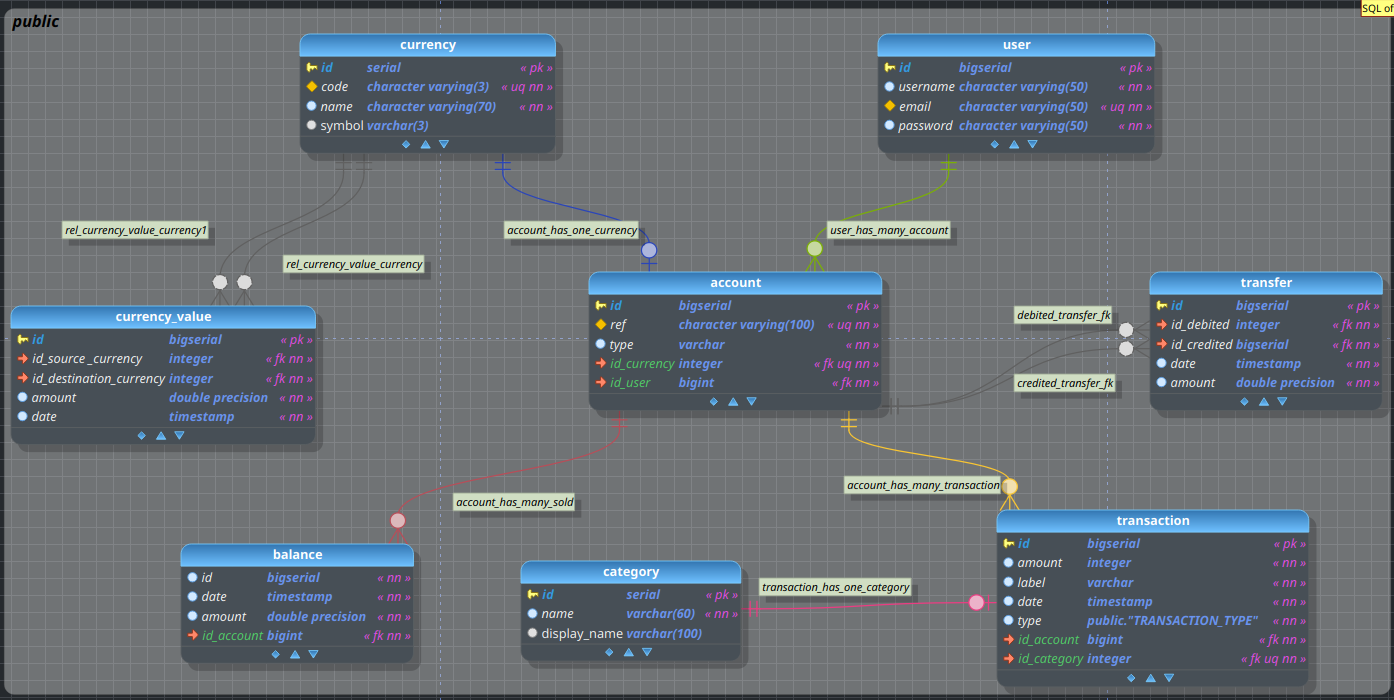
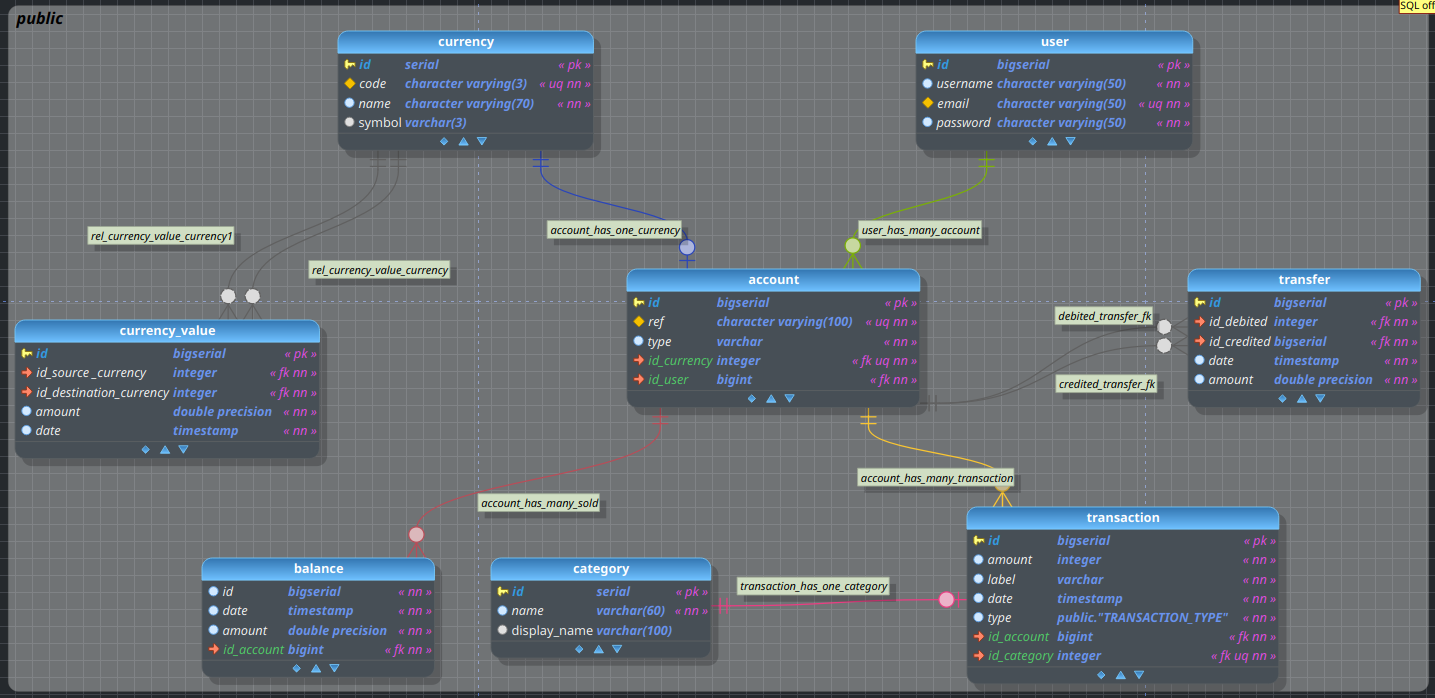
chore: cleaned project (#21)
* format: cleaned code

* chore: updated database model

diff --git a/src/main/java/td/wallet/repository/UserCrudOperations.java b/src/main/java/td/wallet/repository/UserCrudOperations.java
@@ -32,9 +32,9 @@ public class UserCrudOperations {
 
     public List<User> saveAll(List<User> toSave) {
         ArrayList<User> saved = new ArrayList<>();
-        for(User user : toSave) {
+        for (User user : toSave) {
             User value = save(user);
-            if(value == null) {
+            if (value == null) {
                 return null;
             }
             saved.add(value);
@@ -46,15 +46,15 @@ public class UserCrudOperations {
         if (toSave.getId() == 0) {
             return isSaved(toSave) ? findAll().get(0) : null;
         } else if (findById(toSave.getId()) != null) {
-             return qt.executeUpdate(
-                     "UPDATE \"user\" SET username=?, password=?, email=? WHERE id=?",
-                     ps -> {
-                         ps.setString(1, toSave.getUsername());
-                         ps.setString(2, toSave.getEmail());
-                         ps.setString(3, toSave.getPassword());
-                         ps.setLong(4, toSave.getId());
-                     }
-             ) == 0 ? null : toSave;
+            return qt.executeUpdate(
+                    "UPDATE \"user\" SET username=?, password=?, email=? WHERE id=?",
+                    ps -> {
+                        ps.setString(1, toSave.getUsername());
+                        ps.setString(2, toSave.getEmail());
+                        ps.setString(3, toSave.getPassword());
+                        ps.setLong(4, toSave.getId());
+                    }
+            ) == 0 ? null : toSave;
         }
         return null;
     }

diff --git a/src/main/java/td/wallet/repository/CurrencyCrudOperations.java b/src/main/java/td/wallet/repository/CurrencyCrudOperations.java
@@ -10,7 +10,7 @@ import java.util.ArrayList;
 import java.util.List;
 
 public class CurrencyCrudOperations {
-    private QueryTemplate qt = new QueryTemplate();
+    private final QueryTemplate qt = new QueryTemplate();
 
     public Currency findById(int id) {
         return qt.executeSingleQuery(
@@ -30,7 +30,7 @@ public class CurrencyCrudOperations {
 
     public List<Currency> saveAll(List<Currency> toSave) {
         ArrayList<Currency> toBeSaved = new ArrayList<>();
-        for (Currency currency: toSave) {
+        for (Currency currency : toSave) {
             Currency saving = this.save(currency);
             if (saving != null) {
                 toBeSaved.add(saving);
@@ -42,8 +42,8 @@ public class CurrencyCrudOperations {
     }
 
     public Currency save(Currency toSave) {
-        if(toSave.getId() == 0 && isSaved(toSave)) {
-                return findAll().get(0);
+        if (toSave.getId() == 0 && isSaved(toSave)) {
+            return findAll().get(0);
         } else if (this.findById(toSave.getId()) != null) {
             return qt.executeUpdate(
                     "UPDATE currency SET code=?, name=?, symbol=? WHERE id=?",

diff --git a/src/main/java/td/wallet/repository/BalanceCrudOperations.java b/src/main/java/td/wallet/repository/BalanceCrudOperations.java
@@ -10,7 +10,7 @@ import java.util.ArrayList;
 import java.util.List;
 
 public class BalanceCrudOperations implements CrudOperations<Balance> {
-    private QueryTemplate qt = new QueryTemplate();
+    private final QueryTemplate qt = new QueryTemplate();
 
     @Override
     public Balance findById(long id) {
@@ -34,7 +34,7 @@ public class BalanceCrudOperations implements CrudOperations<Balance> {
         ArrayList<Balance> savedBalances = new ArrayList<>();
         for (int i = 0; i < toSave.size(); i++) {
             Balance saved = this.save(toSave.get(i), relId.get(i));
-            if(saved == null) return null;
+            if (saved == null) return null;
             savedBalances.add(saved);
         }
         return savedBalances;
@@ -42,7 +42,7 @@ public class BalanceCrudOperations implements CrudOperations<Balance> {
 
     @Override
     public Balance save(Balance toSave, long relId) {
-        if(toSave.getId() == 0){
+        if (toSave.getId() == 0) {
             return isSaved(toSave, relId) ? this.findAll().get(0) : null;
         } else if (this.findById(toSave.getId()) != null) {
             return qt.executeUpdate(

diff --git a/src/main/java/td/wallet/repository/AccountCrudOperations.java b/src/main/java/td/wallet/repository/AccountCrudOperations.java
@@ -36,7 +36,7 @@ public class AccountCrudOperations implements CrudOperations<Account> {
         ArrayList<Account> savedAccount = new ArrayList<>();
         for (int i = 0; i < toSave.size(); i++) {
             Account saved = save(toSave.get(i), relId.get(i));
-            if(saved == null) return  null;
+            if (saved == null) return null;
             savedAccount.add(saved);
         }
         return savedAccount;
@@ -44,12 +44,12 @@ public class AccountCrudOperations implements CrudOperations<Account> {
 
     @Override
     public Account save(Account toSave, long relId) {
-        if(toSave.getId() == 0) {
-            if(isSaved(toSave, relId)) {
+        if (toSave.getId() == 0) {
+            if (isSaved(toSave, relId)) {
                 return findAll().get(0);
             }
             return null;
-        } else if(findById(toSave.getId()) != null) {
+        } else if (findById(toSave.getId()) != null) {
             return qt.executeUpdate(
                     "UPDATE account SET name=? WHERE id=?",
                     ps -> {

diff --git a/src/main/java/td/wallet/repository/TransferCrudOperations.java b/src/main/java/td/wallet/repository/TransferCrudOperations.java
@@ -14,10 +14,10 @@ import java.util.ArrayList;
 import java.util.List;
 
 public class TransferCrudOperations {
-    public TransferCrudOperations() {
-    }
     private final QueryTemplate qt = new QueryTemplate();
     private final AccountCrudOperations accountRepo = new AccountCrudOperations();
+    public TransferCrudOperations() {
+    }
 
     public Transfer findById(long id) {
         return qt.executeSingleQuery("SELECT * FROM transfer WHERE id=?", ps -> ps.setLong(1, id), this::getResult);
@@ -38,9 +38,9 @@ public class TransferCrudOperations {
     }
 
     public Transfer save(Transfer toSave) {
-        if(toSave.getId() == 0) {
+        if (toSave.getId() == 0) {
             return isSaved(toSave) ? findAll().get(0) : null;
-        } else if(findById(toSave.getId()) != null) {
+        } else if (findById(toSave.getId()) != null) {
             return qt.executeUpdate(
                     "UPDATE transfer SET amount=? WHERE id=?",
                     ps -> {

diff --git a/src/main/java/td/wallet/repository/CurrencyValueCrudOperations.java b/src/main/java/td/wallet/repository/CurrencyValueCrudOperations.java
@@ -41,7 +41,7 @@ public class CurrencyValueCrudOperations implements CrudOperations<CurrencyValue
 
     public List<CurrencyValue> saveAll(List<CurrencyValue> toSave) {
         ArrayList<CurrencyValue> toBeSaved = new ArrayList<>();
-        for (CurrencyValue currency: toSave) {
+        for (CurrencyValue currency : toSave) {
             CurrencyValue saving = this.save(currency);
             if (saving != null) {
                 toBeSaved.add(saving);
@@ -58,7 +58,7 @@ public class CurrencyValueCrudOperations implements CrudOperations<CurrencyValue
     }
 
     public CurrencyValue save(CurrencyValue toSave) {
-        if(toSave.getId() == 0 && isSaved(toSave)) {
+        if (toSave.getId() == 0 && isSaved(toSave)) {
             return findAll().get(0);
         } else if (this.findById(toSave.getId()) != null) {
             return qt.executeUpdate(

diff --git a/src/main/java/td/wallet/service/TransactionService.java b/src/main/java/td/wallet/service/TransactionService.java
@@ -3,12 +3,12 @@ package td.wallet.service;
 import td.wallet.models.Account;
 import td.wallet.models.Balance;
 import td.wallet.models.Transaction;
+import td.wallet.models.TransactionType;
 import td.wallet.repository.AccountCrudOperations;
 import td.wallet.repository.BalanceCrudOperations;
 import td.wallet.repository.TransactionCrudOperations;
 import td.wallet.repository.utils.Columns;
 import td.wallet.utils.QueryTemplate;
-import td.wallet.models.TransactionType;
 
 public class TransactionService {
     private final QueryTemplate qt = new QueryTemplate();

diff --git a/src/main/java/td/wallet/repository/utils/Columns.java b/src/main/java/td/wallet/repository/utils/Columns.java
@@ -1,12 +1,10 @@
 package td.wallet.repository.utils;
 
-import java.awt.*;
-
 public class Columns {
     public static final String ID = "id";
     public static final String NAME = "name";
     public static final String REF = "ref";
-    public static final String TYPE ="type";
+    public static final String TYPE = "type";
     public static final String DATE = "date";
     public static final String AMOUNT = "amount";
     public static final String CODE = "code";

diff --git a/src/main/java/td/wallet/models/Account.java b/src/main/java/td/wallet/models/Account.java
@@ -5,9 +5,9 @@ import java.util.Objects;
 
 public class Account {
     private final long id;
-    private String name;
-    private String ref;
-    private List<Balance> balance;
+    private final String name;
+    private final String ref;
+    private final List<Balance> balance;
     private String type = "CASH";
     private Currency currency;
     private List<Transaction> transactions;

diff --git a/src/main/java/td/wallet/models/CurrencyValue.java b/src/main/java/td/wallet/models/CurrencyValue.java
@@ -7,8 +7,8 @@ public class CurrencyValue {
     private final long id;
     private final Currency source;
     private final Currency destination;
-    private double amount;
-    private Timestamp date;
+    private final double amount;
+    private final Timestamp date;
 
     public CurrencyValue(Currency source, Currency destination, double amount, Timestamp date) {
         this.id = 0;

diff --git a/src/main/java/td/wallet/models/Category.java b/src/main/java/td/wallet/models/Category.java
@@ -11,11 +11,12 @@ public class Category {
         this.displayName = displayName;
     }
 
-    public Category( String name, String displayName) {
+    public Category(String name, String displayName) {
         this.id = 0;
         this.name = name;
         this.displayName = displayName;
     }
+
     public long getId() {
         return id;
     }

diff --git a/src/main/java/td/wallet/models/Balance.java b/src/main/java/td/wallet/models/Balance.java
@@ -4,9 +4,9 @@ import java.sql.Timestamp;
 import java.time.Instant;
 
 public class Balance {
-    private long id;
-    private Timestamp date;
-    private double amount;
+    private final long id;
+    private final Timestamp date;
+    private final double amount;
 
     public Balance(int id, Timestamp date, double amount) {
         this.id = id;
